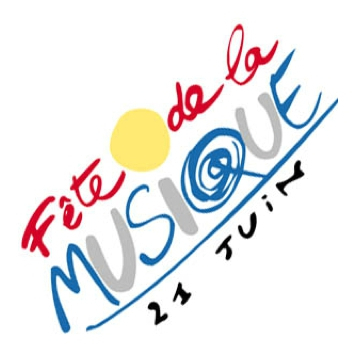
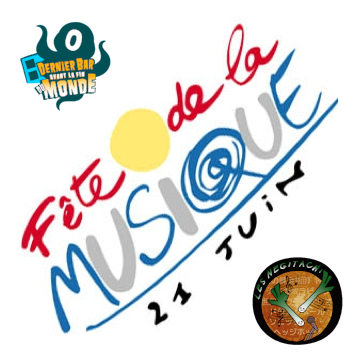
add: place of the Fete de la Musique concert

Changed region(s): [[0.7087, 0.7087, 0.986, 0.986], [0.0616, 0.0616, 0.3081, 0.3081]]

diff --git a/index.html b/index.html
@@ -475,11 +475,11 @@
       <div class="concert" data-date="2017-06-21">
         <div class="thumbnail">
           <div class="caption">
-            <img src="images/fete_musique.jpg" alt="CASDAL" style="width:100%"/>
+            <img src="images/fete_musique.jpg" alt="Fête de la Musique" style="width:100%"/>
             <h3>Fête de la musique</h3>
             <p>
               21 Juin 2017<br>
-              Lieu à venir
+              Dernier Bar avant la Fin du Monde, Paris I
             </p>
             <p class="text-center"><a href="https://www.facebook.com/negitachi" class="btn btn-med">Facebook</a></p>
           </div>
